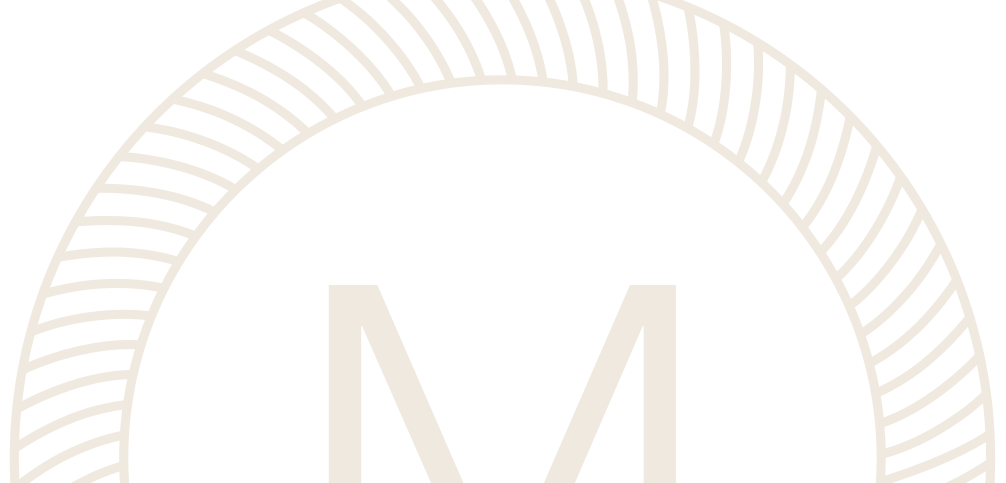
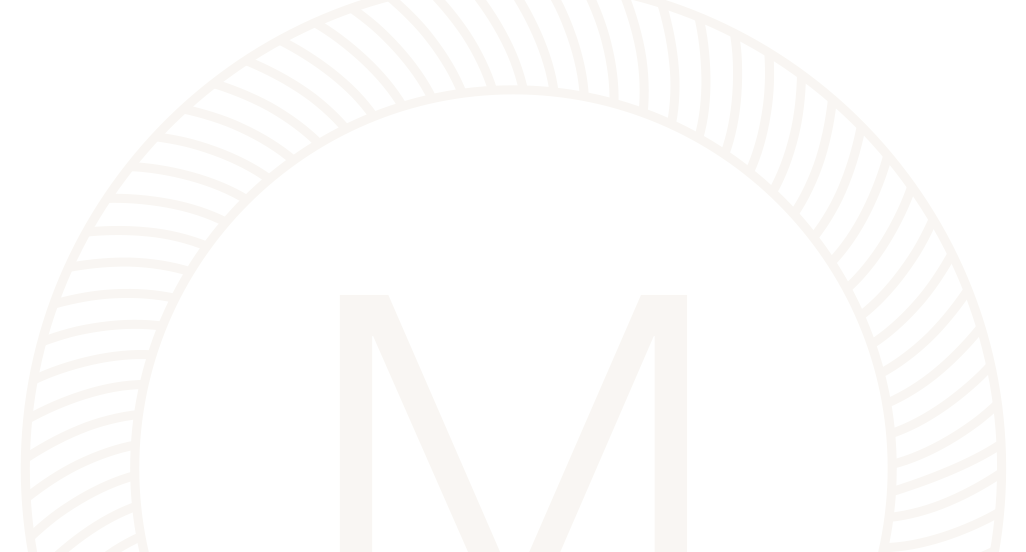
no message

diff --git a/sass/develop_3.scss b/sass/develop_3.scss
@@ -1,6 +1,6 @@
 /* top bottom form */
-.top-form-section {background-image: url(../images/section-top-form.jpg);
-	.top-form-wrap{background-image: url(../images/bgcircle.png);background-repeat: no-repeat;background-position: 100% 50%;position: relative;
+.top-form-section {background-image: url(../images/section-top-form.jpg);background-size: cover;background-repeat: no-repeat;background-position: center;
+	.top-form-wrap{background-image: url(../images/bgcircle.png);background-repeat: no-repeat;background-position: 100% 100%;position: relative;
 		.mbox{
 			.top-form{
 				.content-top-form{text-align: center;padding: 55px 40px 63px 40px;
@@ -111,7 +111,7 @@ form{
 /* top-form-section */
 
 .main-wrap{
-	.top-form-section{background-image: url(../images/section-top-form.jpg);background-repeat: no-repeat;background-position: center;
+	.top-form-section{background-image: url(../images/section-top-form.jpg);background-repeat: no-repeat;background-position: center;background-size: cover;
 		.top-form-wrap{background-image: none;}
 	}
 }

diff --git a/css/develop_3.css b/css/develop_3.css
@@ -1,12 +1,15 @@
 /* top bottom form */
 .top-form-section {
   background-image: url(../images/section-top-form.jpg);
+  background-size: cover;
+  background-repeat: no-repeat;
+  background-position: center;
 }
 
 .top-form-section .top-form-wrap {
   background-image: url(../images/bgcircle.png);
   background-repeat: no-repeat;
-  background-position: 100% 50%;
+  background-position: 100% 100%;
   position: relative;
 }
 
@@ -361,6 +364,7 @@ form .input-wrap-submit:hover {
   background-image: url(../images/section-top-form.jpg);
   background-repeat: no-repeat;
   background-position: center;
+  background-size: cover;
 }
 
 .main-wrap .top-form-section .top-form-wrap {
